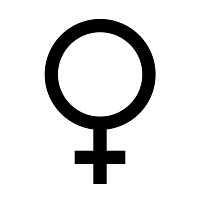
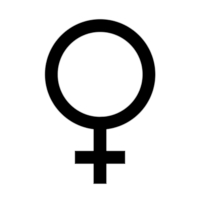
wenus symbol fixed

diff --git a/index.html b/index.html
@@ -106,7 +106,7 @@
         />
         <img 
           id="venus-image" 
-          src="assets/wenus.jpg" 
+          src="assets/wenus2.png" 
           crossorigin="anonymous"
         />
       </a-assets>
@@ -138,7 +138,7 @@
   animation__mouseleave="property: scale; startEvents: mouseleave; easing: easeInCubic; dur: 500; to: 0.03 0.03 0.03"
   ></a-entity>
   <a-entity id= "venus-img-plane" position="0.010 0.019 -0.04" scale="0.003 0.003 0.003" visible="false">
-  <a-plane src="#venus-image" height="1" width="1"></a-plane>
+  <a-plane src="#venus-image" height="1" width="1" material="shader: flat"></a-plane>
   </a-entity>
 </a-entity>
 
